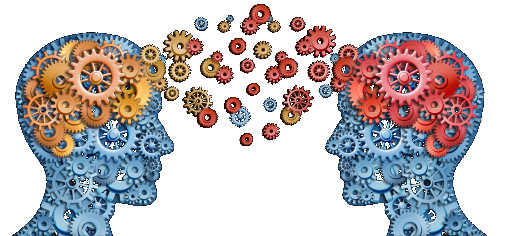
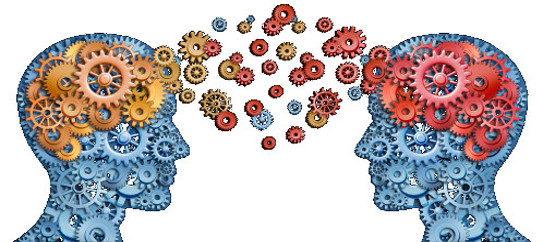
mentor and consulting images

diff --git a/index.html b/index.html
@@ -480,7 +480,7 @@ The data-spy and data-target are part of the built-in Bootstrap scrollspy functi
                     </div>
                 </div>
                 <div class="col-md-6 md-margin-bottom-50">
-                    <img class="img-responsive" src="img/mockup/4.png" alt="">
+                    <img class="img-responsive" src="img/accompaniment/consulting.png" alt="">
                     <h3 class="text-center">Consultoría</h3>
                     <p>Quieres validar cómo trabajas o implantar nuevas ideas con la ayuda de alguien que conoce el camino y tiene experiencia en ese campo.</p><br>
                     <ul class="list-unstyled lists-v1">
